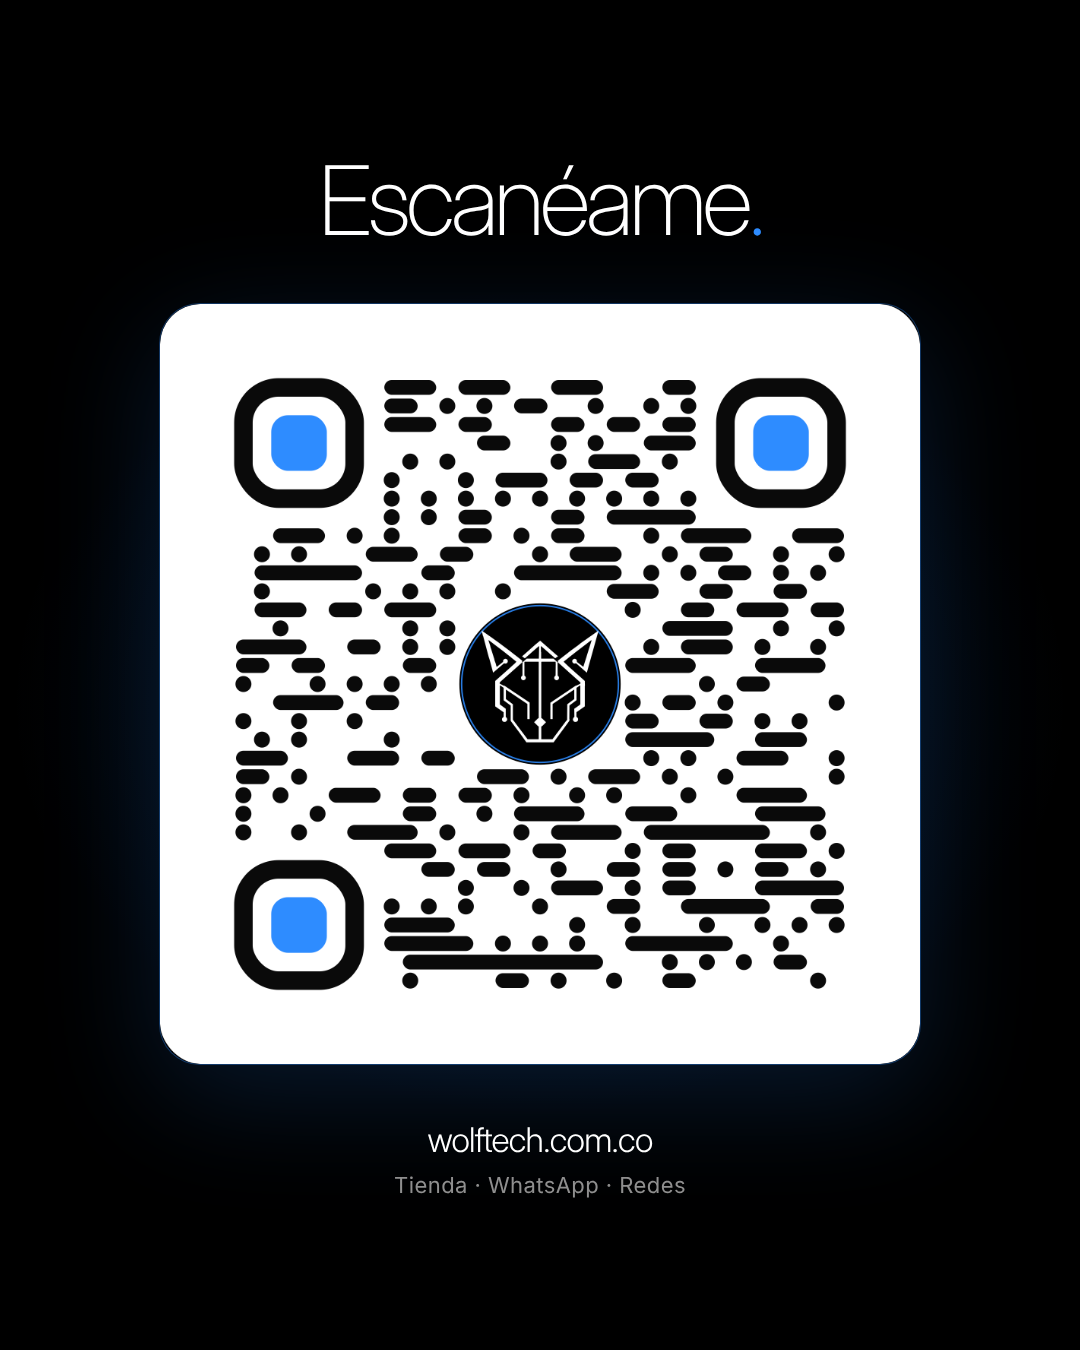
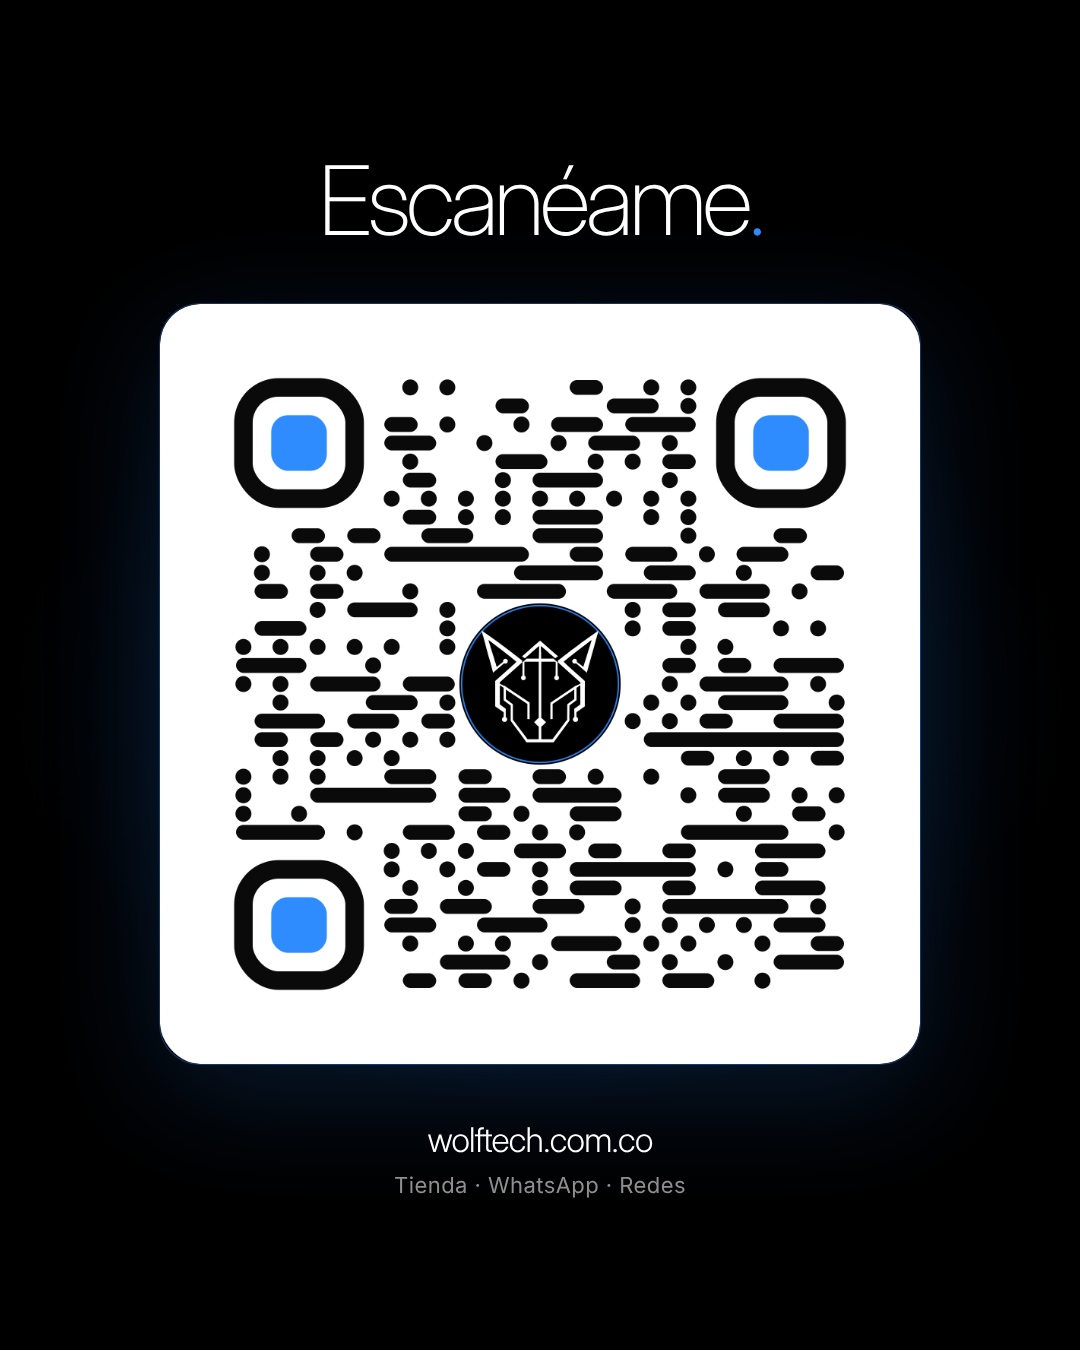
QR con forma de lobo y link corregido (linktr.ee/wolftech.co)
Claude-Session: https://claude.ai/code/session_01JwPtkLsSSG2pprWcWCFLkw

Changed region(s): [[0.2139, 0.28, 0.7944, 0.7467]]

diff --git a/marketing/qr/qr_lobo.py b/marketing/qr/qr_lobo.py
@@ -1,0 +1,88 @@
+"""QR con forma de lobo: el logo oficial (marketing/videos/logo.svg) se convierte en
+puntos y pistas del mismo estilo del QR, y el código real va en la cara del lobo.
+Uso: python3 qr_lobo.py [url]  → qr-lobo(.svg/.png transparente), qr-lobo-blanco.png y qr-lobo-negro(.svg/.png)"""
+import sys, io, segno, cairosvg, numpy as np
+from PIL import Image
+from pathlib import Path
+
+URL = sys.argv[1] if len(sys.argv) > 1 else 'https://linktr.ee/wolftech.co'
+AZUL, TINTA = '#2E8CFF', '#0A0A0A'
+LOGO = Path(__file__).resolve().parent.parent / 'videos' / 'logo.svg'
+LW, LH = 850, 812                          # viewBox del logo
+
+qr = segno.make(URL, error='h', boost_error=False)
+Mq = [list(r) for r in qr.matrix]; N = len(Mq)
+SIL = 4                                    # zona de silencio alrededor del código (módulos)
+QX, QY, QS = 425, 432, 440                 # centro y lado (en unidades del logo) del código + silencio
+u = QS / (N + 2 * SIL)                     # tamaño de un módulo en unidades del logo
+cols, rows = int(np.ceil(LW / u)) + 2, int(np.ceil(LH / u)) + 2
+ox = (cols * u - LW) / 2; oy = (rows * u - LH) / 2
+
+# 1) el logo como cuadrícula: ¿pasa una línea del lobo por este módulo?
+k = 8
+png = cairosvg.svg2png(url=str(LOGO), output_width=int(cols * k * LW / (cols * u)))
+im = np.array(Image.open(io.BytesIO(png)).convert('RGBA'))[:, :, 3] > 100
+sc = im.shape[1] / LW
+def tinta_logo(cx, cy):                    # cx, cy en unidades del logo
+    x0, x1 = int((cx - u * .3) * sc), int((cx + u * .3) * sc)
+    y0, y1 = int((cy - u * .3) * sc), int((cy + u * .3) * sc)
+    if x1 <= 0 or y1 <= 0 or x0 >= im.shape[1] or y0 >= im.shape[0]: return False
+    return im[max(y0, 0):y1, max(x0, 0):x1].mean() > .35
+
+G = np.zeros((rows, cols), bool)
+for r in range(rows):
+    for c in range(cols):
+        G[r, c] = tinta_logo(c * u - ox + u / 2, r * u - oy + u / 2)
+
+# 2) el código QR en la cara (con su zona de silencio vacía)
+q0c = int(round((QX - QS / 2 + ox) / u)); q0r = int(round((QY - QS / 2 + oy) / u))
+caja = (q0r, q0c, q0r + N + 2 * SIL, q0c + N + 2 * SIL)
+G[caja[0]:caja[2], caja[1]:caja[3]] = False
+EYE = np.zeros((rows, cols), bool)
+Q = np.zeros((rows, cols), bool)   # módulos del código (van siempre negros)
+for y in range(N):
+    for x in range(N):
+        r, c = q0r + SIL + y, q0c + SIL + x
+        ojo = (y < 7 and x < 7) or (y < 7 and x >= N - 7) or (y >= N - 7 and x < 7)
+        if ojo: EYE[r, c] = True
+        elif Mq[y][x]: Q[r, c] = True
+
+# 3) dibujo: pistas horizontales con puntas redondas y nodos sueltos
+C = 30
+W, H = cols * C, rows * C
+alto = C * .8
+def trazos(Gm):
+    out = []
+    for r in range(rows):
+        c = 0
+        while c < cols:
+            if Gm[r, c]:
+                c2 = c
+                while c2 + 1 < cols and Gm[r, c2 + 1]: c2 += 1
+                px, py = c * C, r * C
+                if c2 == c: out.append(f'<circle cx="{px + C/2}" cy="{py + C/2}" r="{C*.43:.1f}"/>')
+                else: out.append(f'<rect x="{px + (C-alto)/2:.1f}" y="{py + (C-alto)/2:.1f}" width="{(c2-c+1)*C-(C-alto):.1f}" height="{alto:.1f}" rx="{alto/2:.1f}"/>')
+                c = c2 + 1
+            else: c += 1
+    return ''.join(out)
+lobo, codigo = trazos(G), trazos(Q)
+ojos = []
+for oy_, ox_ in [(0, 0), (0, N - 7), (N - 7, 0)]:
+    px, py = (q0c + SIL + ox_) * C, (q0r + SIL + oy_) * C
+    ojos.append(f'<rect x="{px + C/2}" y="{py + C/2}" width="{6*C}" height="{6*C}" rx="{1.9*C}" fill="none" stroke="{TINTA}" stroke-width="{C}"/>'
+                f'<rect x="{px + 2*C}" y="{py + 2*C}" width="{3*C}" height="{3*C}" rx="{.9*C}" fill="{AZUL}"/>')
+# panel blanco detrás del código (para que funcione sobre fondo negro también)
+pr = (caja[0] * C, caja[1] * C, (caja[2] - caja[0]) * C)
+panel = f'<rect x="{pr[1] + C*.5}" y="{pr[0] + C*.5}" width="{pr[2] - C}" height="{pr[2] - C}" rx="{C*2}" fill="#fff"/>'
+
+def svg(fondo, color_lobo):
+    bg = f'<rect width="{W}" height="{H}" fill="{fondo}"/>' if fondo else ''
+    return (f'<svg xmlns="http://www.w3.org/2000/svg" viewBox="0 0 {W} {H}" width="{W}" height="{H}">{bg}'
+            f'<g fill="{color_lobo}">{lobo}</g>{panel}<g fill="{TINTA}">{codigo}</g>{"".join(ojos)}</svg>')
+
+Path('qr-lobo.svg').write_text(svg(None, TINTA))
+cairosvg.svg2png(bytestring=svg(None, TINTA).encode(), write_to='qr-lobo.png', output_width=2400)
+cairosvg.svg2png(bytestring=svg('#fff', TINTA).encode(), write_to='qr-lobo-blanco.png', output_width=2400)
+Path('qr-lobo-negro.svg').write_text(svg('#000', '#fff'))
+cairosvg.svg2png(bytestring=svg('#000', '#fff').encode(), write_to='qr-lobo-negro.png', output_width=2400)
+print('QR', N, 'x', N, '· cuadrícula', cols, 'x', rows, '·', URL)

diff --git a/marketing/qr/qr.py b/marketing/qr/qr.py
@@ -4,7 +4,7 @@ El logo se toma exacto de marketing/videos/logo.svg (nunca se redibuja)."""
 import re, sys, segno, cairosvg
 from pathlib import Path
 
-URL = sys.argv[1] if len(sys.argv) > 1 else 'https://linktr.ee/wolftech.com.co'
+URL = sys.argv[1] if len(sys.argv) > 1 else 'https://linktr.ee/wolftech.co'
 AZUL, TINTA = '#2E8CFF', '#0A0A0A'
 qr = segno.make(URL, error='h', boost_error=False)
 M = [list(r) for r in qr.matrix]
